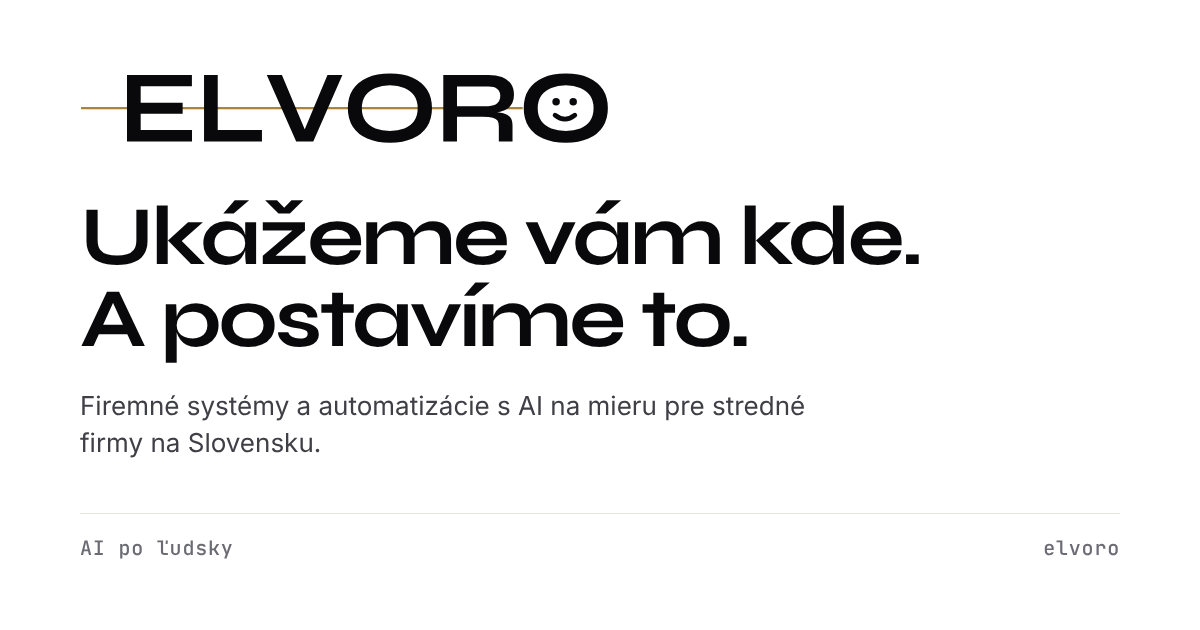
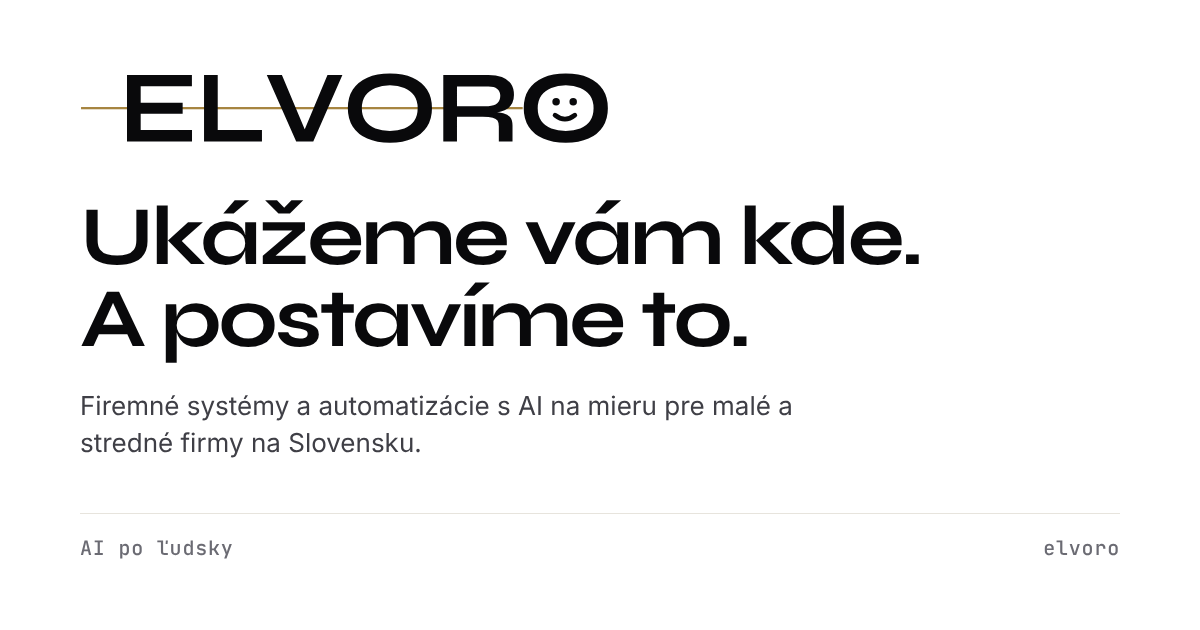
Web zladený s plánom prvých klientov
Podľa rozhodnutí z 30. 10. (rebrík ponuky, cieľová skupina): Ako to
prebieha má úvodný hovor zadarmo a platenú Mapu firmy, FAQ uvádza ceny
s dátumom, definícia a FAQ hovoria o malých a stredných firmách (5 až
250 ľudí), hlasový agent je označený „Pripravujeme“ a vypadol z odpovede
„Kde začať“. Obrázok pre zdieľanie upravený rovnako.

Claude-Session: https://claude.ai/code/session_011i9PGBKLYaQR8FxFgX38PN

Changed region(s): [[0.0617, 0.6937, 0.3392, 0.7238], [0.5858, 0.6333, 0.6783, 0.6635]]

diff --git a/app/page.tsx b/app/page.tsx
@@ -71,11 +71,11 @@ export default function Home() {
               <h2>Kde začať s AI vo firme?</h2>
             </div>
             <div className="answer-a">
-              <p>Záleží na tom, čo vás brzdí najviac. Ak sa stráca čas na e-mailoch, ponukách a prepisovaní, začnite automatizáciou jedného procesu, napríklad od dopytu po faktúru. Ak máte dáta rozhádzané v piatich nástrojoch, najprv ich spojte do jedného firemného systému, až potom má AI z čoho čerpať. A ak vám unikajú zákazníci, lebo nikto nezdvihne telefón, pomôže AI hlasový agent. Kde presne začať u vás, zistíme z krátkej prihlášky.</p>
+              <p>Záleží na tom, čo vás brzdí najviac. Ak sa stráca čas na e-mailoch, ponukách a prepisovaní, začnite automatizáciou jedného procesu, napríklad od dopytu po faktúru. Ak máte dáta rozhádzané v piatich nástrojoch, najprv ich spojte do jedného firemného systému, až potom má AI z čoho čerpať. Kde presne začať u vás, zistíme na Mape firmy.</p>
               <ul className="answer-links">
                 <li><a href="#r3">Firemný systém</a></li>
                 <li><a href="#r1">Automatizácia</a></li>
-                <li><a href="#r2">Hlasový agent</a></li>
+                <li><a href="#postup">Mapa firmy</a></li>
               </ul>
             </div>
           </div>
@@ -91,7 +91,7 @@ export default function Home() {
             <ul className="pains">
               <li className="pain"><q>Polovica dňa ide na e-maily, ponuky a prepisovanie do tabuliek.</q><p>Riešenie: <a href="#r1">automatizácia</a></p></li>
               <li className="pain"><q>Každé oddelenie má vlastný systém a nič spolu nehovorí. Report pre vedenie skladáme ručne.</q><p>Riešenie: prepojenie systémov a reporty, ktoré sa pripravia samy.</p></li>
-              <li className="pain"><q>Zákazník volal, nikto to nezdvihol a zákazku dostal niekto iný.</q><p>Riešenie: <a href="#r2">AI hlasový agent</a></p></li>
+              <li className="pain"><q>Zákazník volal, nikto to nezdvihol a zákazku dostal niekto iný.</q><p>Riešenie: <a href="#r2">AI hlasový agent</a> (pripravujeme)</p></li>
               <li className="pain"><q>Ľudia používajú AI na vlastnú päsť a nevieme, aké firemné dáta do nej posielajú.</q><p>Riešenie: jasné pravidlá a bezpečné AI nástroje pre celú firmu.</p></li>
               <li className="pain"><q>Úlohy máme v jednej appke, čísla v Exceli a dohody v e-mailoch. Prehľad nemá nikto.</q><p>Riešenie: <a href="#r3">vlastný firemný systém</a></p></li>
               <li className="pain"><q>Know-how je v hlavách pár ľudí. Nový človek sa zaúča mesiace.</q><p>Riešenie: firemný AI asistent, ktorý pozná vaše dokumenty a postupy.</p></li>
@@ -170,7 +170,7 @@ export default function Home() {
 
             <article className="solution" id="r2">
               <div className="sol-text">
-                <div className="kind"><span className="n">03</span><span className="label">AI hlasový agent</span></div>
+                <div className="kind"><span className="n">03</span><span className="label">AI hlasový agent</span><span className="soon">Pripravujeme</span></div>
                 <h3>Telefón zdvihne vždy. Aj keď vy práve nemôžete.</h3>
                 <p>Agent pozná vaše služby, ceny a voľné termíny. Hovorí prirodzene, povie, že je AI, vybaví objednávku a všetko zapíše. Kto chce hovoriť s človekom, toho prepojí.</p>
                 <p className="for">Pre: <b>salóny, autoservisy, reštaurácie a firmy s množstvom telefonátov</b></p>
@@ -259,10 +259,10 @@ export default function Home() {
             </div>
             <ol className="steps5">
               <li><span className="sn">1</span><h3>Prihláška</h3><p>Opíšete, čo vaša firma robí a kde stráca čas. Zaberie to pár minút.</p></li>
-              <li><span className="sn">2</span><h3>Pripravíme sa</h3><p>Prejdeme vaše odpovede a nájdeme miesta, kde sa dá ušetriť najviac.</p></li>
-              <li><span className="sn">3</span><h3>Hovor</h3><p>Ukážeme konkrétne návrhy a spolu vyberieme, čím začať.</p></li>
-              <li><span className="sn">4</span><h3>Postavíme a zaučíme</h3><p>Riešenie postavíme na mieru a naučíme tím, ako s ním pracovať.</p></li>
-              <li><span className="sn">5</span><h3>Ostávame po ruke</h3><p>Keď firma rastie alebo sa niečo zmení, riešenie upravíme.</p></li>
+              <li><span className="sn">2</span><h3>Úvodný hovor</h3><p>30 minút, zadarmo. Prejdeme vašu prihlášku a povieme, či a kde vám vieme pomôcť.</p></li>
+              <li><span className="sn">3</span><h3>Mapa firmy</h3><p>Pol dňa až deň u vás. Dostanete prehľad, kde strácate čas, a 3 riešenia s cenou a poradím. 300 až 500 €, odpočíta sa zo zákazky.</p></li>
+              <li><span className="sn">4</span><h3>Prvý modul</h3><p>Postavíme riešenie pre jeden proces, zavedieme ho a zaučíme tím.</p></li>
+              <li><span className="sn">5</span><h3>Ostávame po ruke</h3><p>Mesačná správa: systém udržiavame, upravujeme a pridávame ďalšie časti, keď firma rastie.</p></li>
             </ol>
           </div>
         </section>

diff --git a/app/faq.ts b/app/faq.ts
@@ -3,8 +3,8 @@
 export const FAQ: { otazka: string; odpoved: string; hotova: boolean }[] = [
   {
     otazka: "Koľko to stojí?",
-    odpoved: "Každé riešenie je na mieru, preto cenu navrhneme po prvom hovore, keď vieme, čo presne potrebujete. [Doplniť: od akej sumy alebo ako cenu počítame.]",
-    hotova: false,
+    odpoved: "Úvodný hovor je zadarmo. Potom robíme Mapu firmy za 300 až 500 €, ktorá sa odpočíta zo zákazky. Prvý modul pre jeden proces býva 1 500 až 4 000 €, presnú cenu dostanete po Mape firmy. Ceny k októbru 2026.",
+    hotova: true,
   },
   {
     otazka: "Ako dlho to trvá?",
@@ -33,7 +33,7 @@ export const FAQ: { otazka: string; odpoved: string; hotova: boolean }[] = [
   },
   {
     otazka: "Pre aké firmy je Elvoro?",
-    odpoved: "Najčastejšie pre firmy s 20 až 250 ľuďmi, ktoré chcú zmenu vo fungovaní firmy, nie ďalší nástroj. Kurzy a návody, ako si to spraviť sami, nerobíme.",
+    odpoved: "Pre malé a stredné firmy, zvyčajne s 5 až 250 ľuďmi, ktoré chcú zmenu vo fungovaní firmy, nie ďalší nástroj. Kurzy a návody, ako si to spraviť sami, nerobíme.",
     hotova: true,
   },
 ];

diff --git a/app/config.ts b/app/config.ts
@@ -5,8 +5,8 @@ export const KONTAKT_EMAIL = "[e-mail, doplniť]";
 // Adresa webu (pre sitemap, náhľady pri zdieľaní a štruktúrované dáta). Po kúpe domény zmeniť.
 export const SITE_URL = process.env.NEXT_PUBLIC_SITE_URL ?? "https://elvoro-virid.vercel.app";
 
-// Definícia firmy (AEO): čo, pre koho, čo robí. Schválené používateľom 30. 10. 2026.
+// Definícia firmy (AEO): čo, pre koho, čo robí. Schválené používateľom 30. 10. 2026 („malým a“ doplnené podľa plánu prvých klientov).
 export const DEFINICIA =
-  "Elvoro stavia stredným firmám na Slovensku firemné systémy a automatizácie s AI na mieru, aby ľudia trávili menej času rutinou.";
+  "Elvoro stavia malým a stredným firmám na Slovensku firemné systémy a automatizácie s AI na mieru, aby ľudia trávili menej času rutinou.";
 
 export const INSTAGRAM = "https://www.instagram.com/elvoro.sk/";

diff --git a/app/globals.css b/app/globals.css
@@ -377,3 +377,6 @@ footer.foot a { color: var(--muted); }
 .answer-links a { display: inline-block; font-size: 14px; text-decoration: none; border: 1px solid var(--line); border-radius: 999px; padding: 8px 14px; color: var(--ink); transition: border-color 150ms var(--ease-out); }
 .answer-links a:hover { border-color: var(--ink); }
 @media (max-width: 860px) { .answer > .wrap { grid-template-columns: minmax(0, 1fr); } }
+
+/* Štítok pre riešenie, ktoré sa zatiaľ neponúka */
+.sol-text .kind .soon { font: 500 11px/1 var(--mono); letter-spacing: .06em; text-transform: uppercase; color: var(--ink-2); border: 1px solid var(--line); border-radius: 999px; padding: 5px 9px; }

diff --git a/app/effects.js b/app/effects.js
@@ -192,7 +192,7 @@ export function initEffects(gsap) {
     objednavky: "Objednávky a sklad prepojené na jednom mieste",
     planovanie: "Termíny a pripomienky, ktoré sa naplánujú samy",
     reporty: "Reporty pre vedenie, ktoré sa pripravia samy",
-    telefony: "AI hlasový agent, ktorý zdvihne každý telefonát",
+    telefony: "Telefonáty a dopyty zachytené a zapísané, aby žiadny zákazník neodišiel",
     znalosti: "Firemný AI asistent, ktorý pozná vaše dokumenty a postupy",
     obsah: "Príprava obsahu na sociálne siete s pomocou AI"
   };
